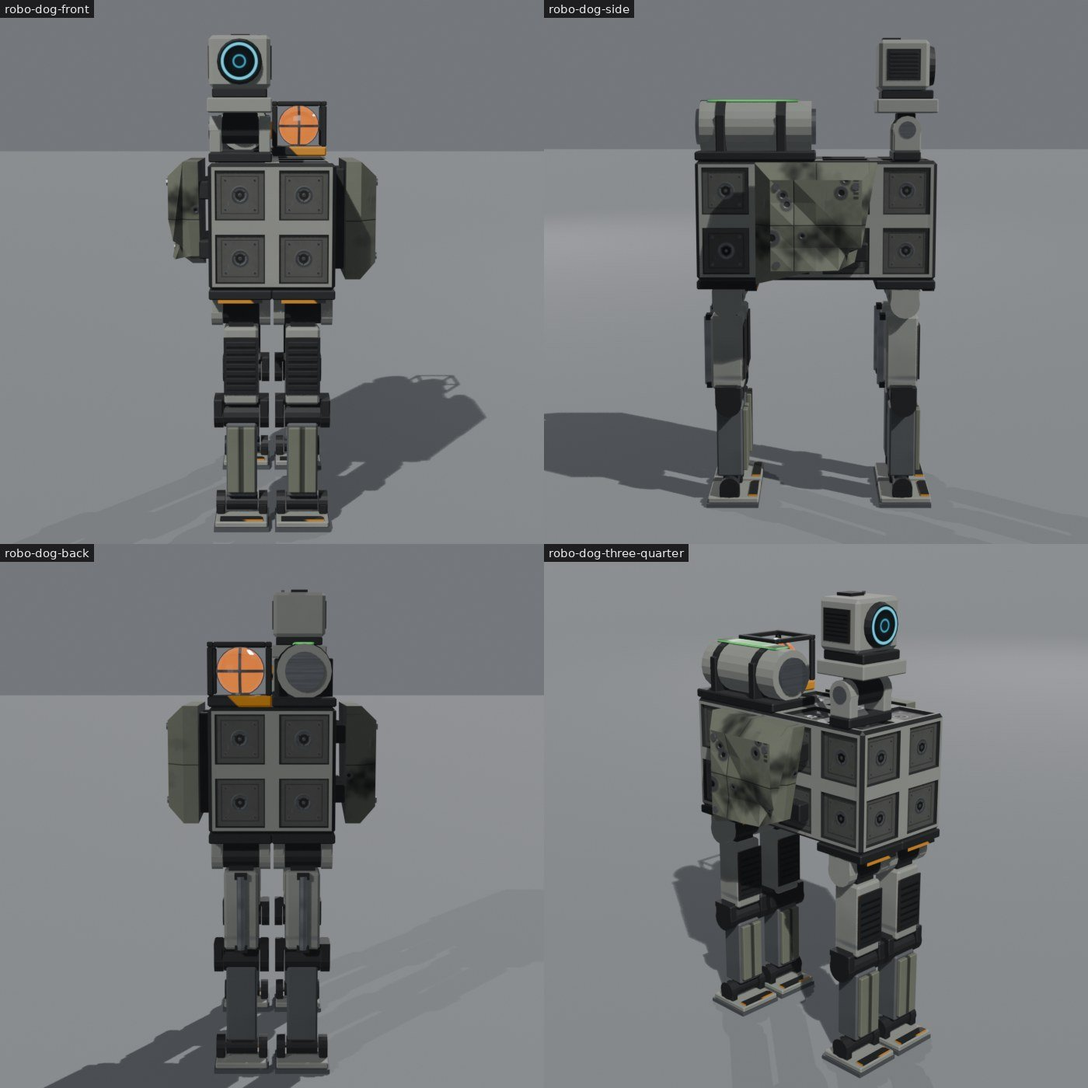
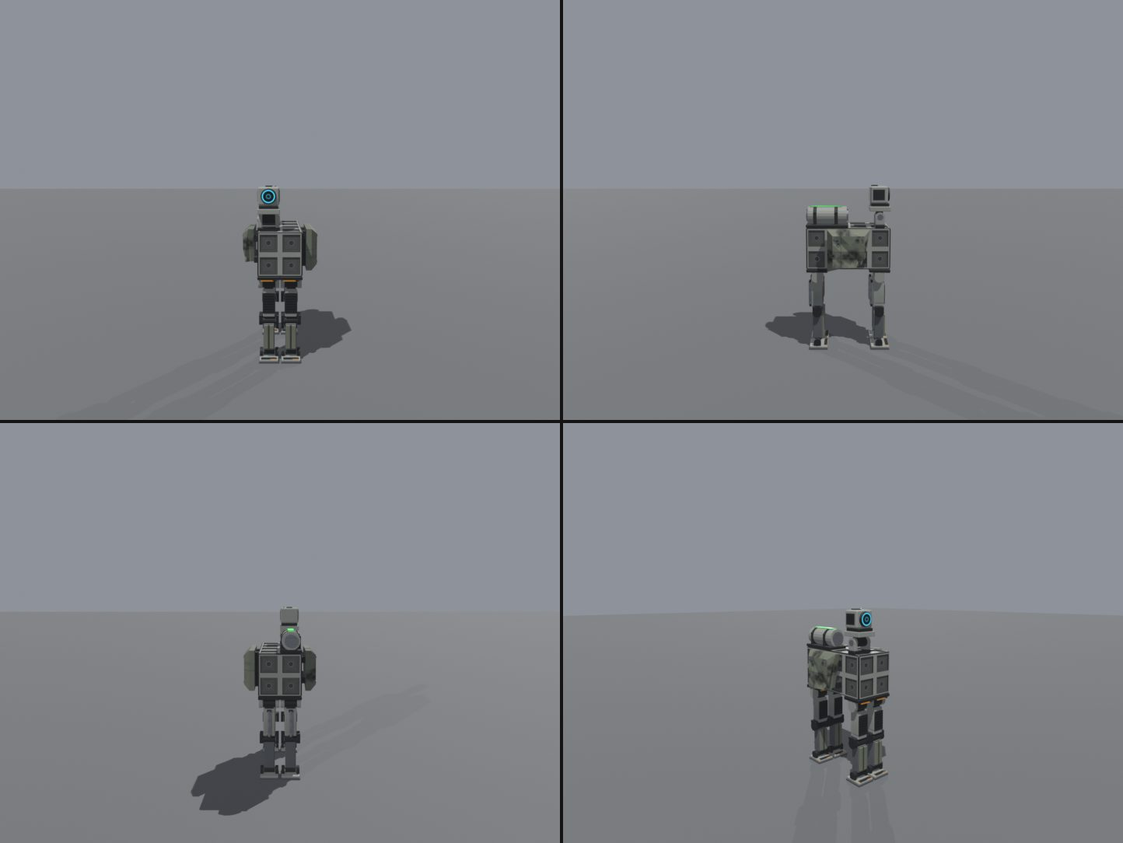
Retire robot.core from the Shooter combat robot kit (#649)
Shooter removed the control core (shooter#89): the root chassis is now the
vital part. The shooter-combat-robot release no longer builds robot.core
(models, LODs, descriptor entry), and no review build uses it:

- robot kit: humanoid, robo-dog, mini-tank and turret drop the core.
- weapons kit: Shooter's humanoid frame drops the core.
- locomotion kit: the wheeled fixtures carry a sensor on the roof where the
  core sat (as Shooter's fixtures.rs now does; the extra sensors go), the
  hull and biped drop the core.
- The atlas keeps its now unused glow cell so its layout does not move.
  Schemas are unchanged. Arm beams stay in the kit.
- Tests, docs and review images updated (weapons and locomotion sheets
  re-rendered with their scripts; the robot kit's build sheets, parts and
  LODs re-rendered, its older motion sheets noted as predating this).

Download 1.80 MB (was 1.97 MB) of the 2 MB budget; two builds byte-identical.

diff --git a/scripts/build-combat-robot.ts b/scripts/build-combat-robot.ts
@@ -39,7 +39,8 @@ export type RobotPartType = { key: string; kind: string; cells: [number, number,
 
 /**
  * The parts this kit builds, exactly as Shooter's catalog declares them (crates/shooter-sim/src/robot.rs `parts`:
- * key, cells x * y * z, socket faces). robot.battery arrived with shooter#79.
+ * key, cells x * y * z, socket faces). robot.battery arrived with shooter#79; robot.core was retired with shooter#89 (the
+ * root chassis is now the vital part).
  */
 export const ROBOT_PARTS: readonly RobotPartType[] = [
   { key: "robot.chassis.20x40x80", kind: "chassis", cells: [1, 2, 4], sockets: "ALL", variants: ["default"] },
@@ -47,7 +48,6 @@ export const ROBOT_PARTS: readonly RobotPartType[] = [
   { key: "robot.chassis.40x60x80", kind: "chassis", cells: [2, 3, 4], sockets: "ALL", variants: ["default"] },
   { key: "robot.beam.20x20x40", kind: "beam", cells: [1, 1, 2], sockets: "ALL", variants: ["default"] },
   { key: "robot.beam.20x20x80", kind: "beam", cells: [1, 1, 4], sockets: "ALL", variants: ["default"] },
-  { key: "robot.core", kind: "core", cells: [1, 1, 1], sockets: "NONE", variants: ["default"] },
   { key: "robot.sensor", kind: "sensor", cells: [1, 1, 1], sockets: "NONE", variants: ["default"] },
   { key: "robot.battery", kind: "battery", cells: [1, 2, 1], sockets: "NONE", variants: ["default"] },
   { key: "robot.armor.plate", kind: "armor", cells: [2, 2, 1], sockets: "NONE", variants: ["default", "damaged"] },
@@ -129,7 +129,7 @@ const turn = (quarters: number): Orientation => ({ ...IDENTITY, yaw: quarters * 
 
 /**
  * Review builds, each a single-parent tree on the socket grid. `humanoid` is Shooter's HEAVY build exactly (robot.rs:
- * the medium chassis, core and battery on its back, sensor on top, a long beam per arm, two legs, the rail gun along
+ * the medium chassis, a battery on its back, sensor on top, a long beam per arm, two legs, the rail gun along
  * the left arm, the blade in the right hand, the rocket launcher on top, the grapple on the chest) plus one armor plate
  * on its chest. `robo-dog` lays the medium chassis along +X on four legs with a nodding sensor head on a hinge.
  * `mini-tank` lays the large chassis on two placeholder tracks with a rotor, riser, hinge and gun. `turret` is a
@@ -141,7 +141,6 @@ export const ROBOT_COMPOSITIONS: Record<string, { note: string; items: Item[] }>
     note: "Shooter's HEAVY build (crates/shooter-sim/src/robot.rs) plus an armor plate on the chest, standing on its placeholder legs; it faces +X.",
     items: [
       { id: "torso", key: "robot.chassis.40x40x80", translation: [0, 0.8, 0] },
-      { id: "core", key: "robot.core", parent: "torso", mount: { face: "NegX", u: 2, v: 0 } },
       { id: "sensor", key: "robot.sensor", parent: "torso", mount: { face: "PosZ", u: 0, v: 0 } },
       { id: "arm-left", key: "robot.beam.20x20x80", parent: "torso", mount: { face: "PosY", u: 3, v: 0 } },
       { id: "arm-right", key: "robot.beam.20x20x80", parent: "torso", mount: { face: "NegY", u: 0, v: 3 } },
@@ -156,7 +155,7 @@ export const ROBOT_COMPOSITIONS: Record<string, { note: string; items: Item[] }>
     ],
   },
   "robo-dog": {
-    note: "A quadruped: the medium chassis lying along +X as the body, four legs underneath at its corners, a sensor head nodding on a hinge at the front, the core and a battery on its back and armor plates on its flanks (one damaged).",
+    note: "A quadruped: the medium chassis lying along +X as the body, four legs underneath at its corners, a sensor head nodding on a hinge at the front, a battery on its back and armor plates on its flanks (one damaged).",
     items: [
       { id: "body", key: "robot.chassis.40x40x80", translation: [-0.4, 1.1, 0.2], orientation: { yaw: 0, pitch: QUARTER_TURN, roll: 0 } },
       { id: "leg-rear-left", key: "robot.leg", parent: "body", mount: { face: "PosX", u: 0, v: 0 } },
@@ -165,14 +164,13 @@ export const ROBOT_COMPOSITIONS: Record<string, { note: string; items: Item[] }>
       { id: "leg-front-right", key: "robot.leg", parent: "body", mount: { face: "PosX", u: 1, v: 3 } },
       { id: "neck", key: "robot.joint.hinge", parent: "body", mount: { face: "NegX", u: 3, v: 0, orientation: turn(1) } },
       { id: "head", key: "robot.sensor", parent: "neck", mount: { face: "PosZ", u: 0, v: 0, orientation: turn(-1) } },
-      { id: "core", key: "robot.core", parent: "body", mount: { face: "NegX", u: 0, v: 1 } },
       { id: "battery", key: "robot.battery", parent: "body", mount: { face: "NegX", u: 1, v: 0, orientation: turn(1) } },
       { id: "flank-left", key: "robot.armor.plate", parent: "body", mount: { face: "PosY", u: 1, v: 0 } },
       { id: "flank-right", key: "robot.armor.plate", variant: "damaged", parent: "body", mount: { face: "NegY", u: 0, v: 1 } },
     ],
   },
   "mini-tank": {
-    note: "A low tracked tank: the large chassis lying along +X on two tracks (placeholders until #634), a rotor on its deck with a riser, a hinge and the rail gun (placeholder until #594) as a pitching, turning turret, the core at the back, a sensor and a battery on the deck and an armor plate on the nose.",
+    note: "A low tracked tank: the large chassis lying along +X on two tracks (placeholders until #634), a rotor on its deck with a riser, a hinge and the rail gun (placeholder until #594) as a pitching, turning turret, a sensor and a battery on the deck and an armor plate on the nose.",
     items: [
       { id: "hull", key: "robot.chassis.40x60x80", translation: [-0.4, 0.7, 0.3], orientation: { yaw: 0, pitch: QUARTER_TURN, roll: 0 } },
       { id: "track-left", key: "robot.track", parent: "hull", mount: { face: "PosX", u: 0, v: 0 } },
@@ -181,14 +179,13 @@ export const ROBOT_COMPOSITIONS: Record<string, { note: string; items: Item[] }>
       { id: "riser", key: "robot.beam.20x20x40", parent: "rotor", mount: { face: "PosZ", u: 0, v: 0 } },
       { id: "elevation", key: "robot.joint.hinge", parent: "riser", mount: { face: "PosX", u: 0, v: 1 } },
       { id: "rail-gun", key: "weapon.rail-gun", parent: "elevation", mount: { face: "PosZ", u: 0, v: 0 } },
-      { id: "core", key: "robot.core", parent: "hull", mount: { face: "NegZ", u: 1, v: 1 } },
       { id: "sensor", key: "robot.sensor", parent: "hull", mount: { face: "NegX", u: 3, v: 0 } },
       { id: "battery", key: "robot.battery", parent: "hull", mount: { face: "NegX", u: 0, v: 0 } },
       { id: "nose-plate", key: "robot.armor.plate", parent: "hull", mount: { face: "PosZ", u: 0, v: 0 } },
     ],
   },
   turret: {
-    note: "A stationary turret: the large chassis as the pedestal, a rotor, a riser beam, a hinge and the medium chassis as the gun housing pointing +X, with armor, the core, a battery and a sensor.",
+    note: "A stationary turret: the large chassis as the pedestal, a rotor, a riser beam, a hinge and the medium chassis as the gun housing pointing +X, with armor, a battery and a sensor.",
     items: [
       { id: "pedestal", key: "robot.chassis.40x60x80", translation: [-0.1, 0, 0.2] },
       { id: "rotor", key: "robot.joint.rotor", parent: "pedestal", mount: { face: "PosZ", u: 0, v: 1 } },
@@ -197,7 +194,6 @@ export const ROBOT_COMPOSITIONS: Record<string, { note: string; items: Item[] }>
       { id: "housing", key: "robot.chassis.40x40x80", parent: "elevation", mount: { face: "PosZ", u: 0, v: 0 } },
       { id: "sensor", key: "robot.sensor", parent: "housing", mount: { face: "PosY", u: 3, v: 0 } },
       { id: "rail-gun", key: "weapon.rail-gun", parent: "housing", mount: { face: "PosZ", u: 0, v: 0 } },
-      { id: "core", key: "robot.core", parent: "pedestal", mount: { face: "NegX", u: 3, v: 1 } },
       { id: "battery", key: "robot.battery", parent: "pedestal", mount: { face: "NegX", u: 1, v: 0 } },
       { id: "front-plate", key: "robot.armor.plate", parent: "pedestal", mount: { face: "PosX", u: 0, v: 0 } },
       { id: "side-plate", key: "robot.armor.plate", variant: "damaged", parent: "pedestal", mount: { face: "PosY", u: 0, v: 0, orientation: turn(0) } },

diff --git a/scripts/build-robot-locomotion.ts b/scripts/build-robot-locomotion.ts
@@ -123,14 +123,14 @@ const GROUND = { normal: [0, 1, 0] as Vec3, uAxis: [1, 0, 0] as Vec3, vAxis: [0,
 const yaw = (quarters: number): Orientation => ({ ...IDENTITY, yaw: quarters * QUARTER_TURN });
 const L = "robot.chassis.40x60x80";
 
-/** Shooter's wheeled fixtures (crates/shooter-sim/src/mechanics/fixtures.rs `wheeled`): the large chassis on end, the core
- * on top, four wheels hanging over the bottom corners of two opposite faces. */
+/** Shooter's wheeled fixtures (crates/shooter-sim/src/mechanics/fixtures.rs `wheeled`): the large chassis on end, a sensor
+ * on top where the retired core sat (shooter#89), four wheels hanging over the bottom corners of two opposite faces. */
 function wheeled(sideways: boolean, lift: number): Item[] {
   const [left, right]: Face[] = sideways ? ["PosX", "NegX"] : ["PosY", "NegY"];
   const [secondLeft, secondRight, quarterLeft, quarterRight] = sideways ? [[2, 0], [0, 2], 3, 1] as const : [[0, 1], [1, 0], 1, 3] as const;
   return [
     { id: "chassis", key: L, translation: [-0.1, lift, 0.1] },
-    { id: "core", key: "robot.core", parent: "chassis", mount: { face: "PosZ", u: 0, v: 0 } },
+    { id: "sensor", key: "robot.sensor", parent: "chassis", mount: { face: "PosZ", u: 0, v: 0 } },
     { id: "wheel-left-rear", key: "robot.wheel", parent: "chassis", mount: { face: left, u: 0, v: 0, orientation: yaw(2) } },
     { id: "wheel-left-front", key: "robot.wheel", parent: "chassis", mount: { face: left, u: secondLeft[0], v: secondLeft[1], orientation: yaw(quarterLeft) } },
     { id: "wheel-right-rear", key: "robot.wheel", parent: "chassis", mount: { face: right, u: 0, v: 0, orientation: yaw(2) } },
@@ -138,18 +138,17 @@ function wheeled(sideways: boolean, lift: number): Item[] {
   ];
 }
 
-/** The large chassis lying along +X as a hull (40 cm tall, 60 wide, its bottom on the ground), the core on its back. */
+/** The large chassis lying along +X as a hull (40 cm tall, 60 wide, its bottom on the ground). */
 function hull(): Item[] {
   return [
     { id: "hull", key: L, translation: [-0.4, 0.3, 0.2], orientation: { yaw: 0, pitch: QUARTER_TURN, roll: 0 } },
-    { id: "core", key: "robot.core", parent: "hull", mount: { face: "NegZ", u: 1, v: 0 } },
   ];
 }
 
 /**
  * Review builds. `biped` is Shooter's humanoid frame on the robot kit's legs, for comparison; `wheeler` and `strafer` are
  * Shooter's `car` and `strafer` fixtures exactly (wheels on the sides, then on the front and back: the unusual mounting
- * that drives it sideways), each with a sensor and a grapple added; `mini-tank` lays the large chassis on two tracks on
+ * that drives it sideways), the wheeler with a grapple added; `mini-tank` lays the large chassis on two tracks on
  * its sides (their axles across the hull) under a rotor, hinge and rail-gun turret; `crab` carries its tracks on the
  * hull's ends, overhanging, so it crawls sideways.
  */
@@ -158,7 +157,6 @@ export const LOCOMOTION_COMPOSITIONS: Record<string, { note: string; items: Item
     note: "For comparison: Shooter's humanoid frame on the small chassis (robot.rs `frame`) on the robot kit's legs, with the rifle and the grapple.",
     items: [
       { id: "torso", key: "robot.chassis.20x40x80", translation: [0, 0.8, 0] },
-      { id: "core", key: "robot.core", parent: "torso", mount: { face: "NegX", u: 2, v: 0 } },
       { id: "sensor", key: "robot.sensor", parent: "torso", mount: { face: "PosZ", u: 0, v: 0 } },
       { id: "arm-left", key: "robot.beam.20x20x80", parent: "torso", mount: { face: "PosY", u: 3, v: 0 } },
       { id: "arm-right", key: "robot.beam.20x20x80", parent: "torso", mount: { face: "NegY", u: 0, v: 3 } },
@@ -169,15 +167,15 @@ export const LOCOMOTION_COMPOSITIONS: Record<string, { note: string; items: Item
     ],
   },
   wheeler: {
-    note: "Shooter's `car` fixture exactly (the large chassis on end, the core on top, four wheels hanging over the bottom corners of its sides, axles across), plus a sensor and the grapple on its front.",
-    items: [...wheeled(false, 0.2 - 0.02), { id: "sensor", key: "robot.sensor", parent: "chassis", mount: { face: "PosX", u: 2, v: 3 } }, { id: "grapple", key: "weapon.grapple-hook", parent: "chassis", mount: { face: "PosX", u: 0, v: 3 } }],
+    note: "Shooter's `car` fixture exactly (the large chassis on end, a sensor on top where the retired core sat, four wheels hanging over the bottom corners of its sides, axles across), plus the grapple on its front.",
+    items: [...wheeled(false, 0.2 - 0.02), { id: "grapple", key: "weapon.grapple-hook", parent: "chassis", mount: { face: "PosX", u: 0, v: 3 } }],
   },
   strafer: {
     note: "Shooter's `strafer` fixture exactly: the same four wheels on the chassis' front and back, axles along its length, so the same drive moves it sideways. The unusual wheel mounting.",
-    items: [...wheeled(true, 0.2 - 0.02), { id: "sensor", key: "robot.sensor", parent: "chassis", mount: { face: "PosX", u: 1, v: 3 } }],
+    items: wheeled(true, 0.2 - 0.02),
   },
   "mini-tank": {
-    note: "A low tank: the large chassis lying along +X (40 cm tall, 60 wide) with a track on each side over its lower cell row (axles across the hull, the belt's bottom flush with the hull's), a rotor, riser and hinge carrying the rail gun, the core at the back, a sensor and the grapple on the front.",
+    note: "A low tank: the large chassis lying along +X (40 cm tall, 60 wide) with a track on each side over its lower cell row (axles across the hull, the belt's bottom flush with the hull's), a rotor, riser and hinge carrying the rail gun, a sensor and the grapple on the front.",
     items: [
       ...hull(),
       { id: "track-left", key: "robot.track", parent: "hull", mount: { face: "PosY", u: 0, v: 1, orientation: yaw(-1) } },

diff --git a/test/socket-grid.test.ts b/test/socket-grid.test.ts
@@ -9,11 +9,11 @@ const cross = (a: number[], b: number[]) => [a[1]! * b[2]! - a[2]! * b[1]!, a[2]
 
 test("the kit's parts are Shooter's catalog rows, with its socket counts", () => {
   const rows = Object.fromEntries(ROBOT_PARTS.map((part) => [part.key, [part.cells, part.sockets]]));
-  // robot.rs parts: key, cells, socket faces (robot.battery from shooter#79).
+  // robot.rs parts: key, cells, socket faces (robot.battery from shooter#79; robot.core retired with shooter#89).
   assert.deepEqual(rows, {
     "robot.chassis.20x40x80": [[1, 2, 4], "ALL"], "robot.chassis.40x40x80": [[2, 2, 4], "ALL"], "robot.chassis.40x60x80": [[2, 3, 4], "ALL"],
     "robot.beam.20x20x40": [[1, 1, 2], "ALL"], "robot.beam.20x20x80": [[1, 1, 4], "ALL"],
-    "robot.core": [[1, 1, 1], "NONE"], "robot.sensor": [[1, 1, 1], "NONE"], "robot.battery": [[1, 2, 1], "NONE"], "robot.armor.plate": [[2, 2, 1], "NONE"],
+    "robot.sensor": [[1, 1, 1], "NONE"], "robot.battery": [[1, 2, 1], "NONE"], "robot.armor.plate": [[2, 2, 1], "NONE"],
     "robot.joint.hinge": [[1, 1, 1], "TOP"], "robot.joint.rotor": [[1, 1, 1], "TOP"], "robot.leg": [[1, 1, 4], "NONE"],
   });
   const count = (key: string) => { const part = ROBOT_PARTS.find((p) => p.key === key)!; return partSockets(part.cells, SOCKET_FACES[part.sockets]).length; };
@@ -25,14 +25,14 @@ test("the kit's parts are Shooter's catalog rows, with its socket counts", () =>
   assert.equal(count("robot.chassis.40x60x80"), 52);
   assert.equal(count("robot.beam.20x20x40"), 10);
   assert.equal(count("robot.beam.20x20x80"), 18);
-  assert.equal(count("robot.core"), 0);
+  assert.equal(count("robot.sensor"), 0);
   assert.equal(ROBOT_PARTS.find((p) => p.key === "robot.armor.plate")!.variants.includes("damaged"), true);
 });
 
 test("sockets follow Shooter's numbering and sit on their faces, one per cell", () => {
   const cells = [1, 2, 4];
   const sockets = partSockets(cells, FACES);
-  // Shooter's frame(): the arm on PosY at (side - 1, 0) and on NegY at (0, right - 1), the core on NegX at (2, 0).
+  // Shooter's frame(): the arm on PosY at (side - 1, 0) and on NegY at (0, right - 1); a back socket, NegX (2, 0).
   assert.equal(sockets.find((s) => s.face === "PosY" && s.u === 3 && s.v === 0)!.id, 8 + 8 + 3);
   assert.equal(sockets.find((s) => s.face === "NegX" && s.u === 2 && s.v === 0)!.id, 8 + 2);
   assert.deepEqual(faceGrid("NegY", cells), [1, 4]);

diff --git a/scripts/build-shooter-weapons.ts b/scripts/build-shooter-weapons.ts
@@ -178,11 +178,10 @@ type Mount = { face: Face; u: number; v: number; orientation?: Orientation };
 type Item = { id: string; key: string; variant?: string; parent?: string; mount?: Mount; translation?: Vec3; orientation?: Orientation; mod?: string };
 const GROUND = { normal: [0, 1, 0] as Vec3, uAxis: [1, 0, 0] as Vec3, vAxis: [0, 0, -1] as Vec3 };
 
-/** Shooter's humanoid frame (robot.rs `frame`) on `torso`: the core on its back, the sensor on top, an arm a side, two legs. */
+/** Shooter's humanoid frame (robot.rs `frame`) on `torso`: the sensor on top, an arm a side, two legs. */
 function frame(torso: string, cells: readonly number[]): Item[] {
   return [
     { id: "torso", key: torso, translation: [0, 0.8, 0] },
-    { id: "core", key: "robot.core", parent: "torso", mount: { face: "NegX", u: 2, v: 0 } },
     { id: "sensor", key: "robot.sensor", parent: "torso", mount: { face: "PosZ", u: 0, v: 0 } },
     { id: "arm-left", key: "robot.beam.20x20x80", parent: "torso", mount: { face: "PosY", u: cells[2]! - 1, v: 0 } },
     { id: "arm-right", key: "robot.beam.20x20x80", parent: "torso", mount: { face: "NegY", u: 0, v: cells[2]! - 1 } },

diff --git a/test/blender/kits/combat-robot.test.ts b/test/blender/kits/combat-robot.test.ts
@@ -146,7 +146,7 @@ test("the recipe builds a verified kit on one atlas, every part inside its cuboi
     assert.deepEqual(conforms(schema, descriptor, schema), []);
     assert.deepEqual(descriptor.parts.map((part: any) => [part.key, part.socketCount]), [
       ["robot.chassis.20x40x80", 28], ["robot.chassis.40x40x80", 40], ["robot.chassis.40x60x80", 52], ["robot.beam.20x20x40", 10], ["robot.beam.20x20x80", 18],
-      ["robot.core", 0], ["robot.sensor", 0], ["robot.battery", 0], ["robot.armor.plate", 0], ["robot.joint.hinge", 1], ["robot.joint.rotor", 1], ["robot.leg", 0],
+      ["robot.sensor", 0], ["robot.battery", 0], ["robot.armor.plate", 0], ["robot.joint.hinge", 1], ["robot.joint.rotor", 1], ["robot.leg", 0],
     ]);
     for (const part of descriptor.parts) {
       assert.deepEqual(part.joints, ROBOT_JOINTS[part.key]?.joints ?? [], `${part.key}: joints`);

diff --git a/adapters/blender/combat_robot.py b/adapters/blender/combat_robot.py
@@ -39,7 +39,6 @@ PARTS = {
     "robot.chassis.40x60x80": ((2, 3, 4), True),
     "robot.beam.20x20x40": ((1, 1, 2), True),
     "robot.beam.20x20x80": ((1, 1, 4), True),
-    "robot.core": ((1, 1, 1), False),
     "robot.sensor": ((1, 1, 1), False),
     "robot.battery": ((1, 2, 1), False),
     "robot.armor.plate": ((2, 2, 1), False),
@@ -71,6 +70,7 @@ ARMOR = np.array((0.42, 0.44, 0.38))         # armor: olive drab
 ATLAS_EDGE = 2048
 CELL_PX = 512
 GUTTER = 8
+# "core-glow" is unused since robot.core was retired (shooter#89, #649); it stays so the atlas layout does not move.
 CELLS = {
     "socket": (0, 0), "socket-flat": (1, 0), "paint": (2, 0), "gunmetal": (3, 0),
     "steel": (0, 1), "socket-beam": (1, 1), "hazard": (2, 1), "vent": (3, 1),
@@ -571,31 +571,6 @@ def beam(p):
     p.socket_cuboid("beam-paint", "socket-beam", "socket-flat-beam", "gunmetal")
 
 
-def core(p):
-    """The control core, the kill target: a white-hot reactor sphere in an open armoured cage on a hazard-striped base."""
-    lvl = p.level
-    p.box((-0.1, -0.1, 0), (0.1, 0.1, 0.035), "hazard", bevel=0.006 if lvl == 0 else 0, top="panel")
-    if lvl < 2:
-        for sx in (-1, 1):
-            for sy in (-1, 1):
-                p.box((sx * 0.1 - (0.02 if sx > 0 else 0), sy * 0.1 - (0.02 if sy > 0 else 0), 0.035),
-                      (sx * 0.1 + (0.02 if sx < 0 else 0), sy * 0.1 + (0.02 if sy < 0 else 0), 0.184), "gunmetal", bevel=0.004 if lvl == 0 else 0)
-        # The top frame: four bars round an open square, so the glow shows from above too.
-        for lo, hi in (((-0.1, -0.1, 0.184), (0.1, -0.08, 0.2)), ((-0.1, 0.08, 0.184), (0.1, 0.1, 0.2)),
-                       ((-0.1, -0.08, 0.184), (-0.08, 0.08, 0.2)), ((0.08, -0.08, 0.184), (0.1, 0.08, 0.2))):
-            p.box(lo, hi, "gunmetal", bevel=0.003 if lvl == 0 else 0)
-        p.sphere((0, 0, 0.11), 0.074, 20 if lvl == 0 else 10, 12 if lvl == 0 else 6, "core-glow")
-        if lvl == 0:
-            # Containment rings: one round the equator, two meridians. Each is a closed thin disc whose middle hides
-            # inside the sphere, so only the ring shows and no open edge does from any side.
-            for axis in ((0, 0, 1), (1, 0, 0), (0, 1, 0)):
-                p.cylinder(Vector((0, 0, 0.11)) - Vector(axis) * 0.005, axis, 0.077, 0.01, 24, "steel")
-            p.cylinder((0, 0, 0.035), (0, 0, 1), 0.03, 0.012, 12, "steel")
-    else:
-        p.box((-0.07, -0.07, 0.04), (0.07, 0.07, 0.18), "core-glow")
-    return {}
-
-
 def sensor(p):
     """A sensor head: a housing with a large lens looking along +x, side vents and a neck collar."""
     lvl = p.level
@@ -879,7 +854,7 @@ def add_clips(obj):
 BUILDERS = {
     "robot.chassis.20x40x80": chassis, "robot.chassis.40x40x80": chassis, "robot.chassis.40x60x80": chassis,
     "robot.beam.20x20x40": beam, "robot.beam.20x20x80": beam,
-    "robot.core": core, "robot.sensor": sensor, "robot.battery": battery, "robot.armor.plate": armor_plate,
+    "robot.sensor": sensor, "robot.battery": battery, "robot.armor.plate": armor_plate,
     "robot.joint.hinge": hinge, "robot.joint.rotor": rotor, "robot.leg": leg,
 }
 

diff --git a/docs/combat-robot-kit.md b/docs/combat-robot-kit.md
@@ -4,7 +4,9 @@ Modular robot parts for the [Shooter](https://github.com/moenarch-games/shooter)
 
 It is a reproducible Blender recipe, [`adapters/blender/combat_robot.py`](../adapters/blender/combat_robot.py), built to the [kit standard](kit-standard.md) and shipped as one rolling release, `shooter-combat-robot` (`shooter-combat-robot.kit.tar`). It is original procedural work with no third-party assets (see [Sources](#sources)). No game places it yet.
 
-**Status.** The release has every part of #595: the nine static parts, the hinge and rotor joints with their axis frames, and the leg with its joint chain and reference walk clips. Every part is a closed surface, so it renders attached or detached on its own. Wheels and tracks come with #634 and weapons with #594.
+**Status.** The release has the eight static parts, the hinge and rotor joints with their axis frames, and the leg with its joint chain and reference walk clips. Every part is a closed surface, so it renders attached or detached on its own. Wheels and tracks come with #634 and weapons with #594.
+
+**Retired: `robot.core`.** Shooter removed the control core from its catalog (shooter#89): a robot's root chassis is now its vital part. The release no longer builds `robot.core` (models, LODs and descriptor entry are gone, #649), and no review build uses it. The atlas keeps its unused glow cell, so the layout does not move. Shooter owns the vital-part rule; the kit draws no cue for it.
 
 ## Build
 
@@ -25,7 +27,6 @@ Each part's key, cells and socket faces are Shooter's catalog row (`crates/shoot
 | `robot.chassis.40x60x80` | 2 × 3 × 4 | 52 | 1,016 / 184 / 12 | |
 | `robot.beam.20x20x40` | 1 × 1 × 2 | 10 | 220 / 60 / 12 | dark graphite structural beam, couplings on every cell |
 | `robot.beam.20x20x80` | 1 × 1 × 4 | 18 | 380 / 92 / 12 | |
-| `robot.core` | 1 × 1 × 1 | – | 1,156 / 208 / 24 | the kill target: a glowing orange reactor sphere in an open black cage on a hazard-striped base |
 | `robot.sensor` | 1 × 1 × 1 | – | 220 / 84 / 36 | a housing with a large lens looking along the part's +x, side vents |
 | `robot.battery` | 1 × 2 × 1 | – | 524 / 132 / 24 | one large cell along y in a cradle, a lit green charge window on top |
 | `robot.armor.plate` | 2 × 2 × 1 | – | 262 / 44 / 12 | an olive faceted plate on two brackets; `damaged`: holed, dented, scorched, a corner shot away |
@@ -33,11 +34,11 @@ Each part's key, cells and socket faces are Shooter's catalog row (`crates/shoot
 | `robot.joint.rotor` | 1 × 1 × 1 | 1 (top) | 492 / 188 / 24 | a continuous rotor: a square flange and drum, a steel bearing ring, and a turntable with hazard stripes round its rim (so a turn reads) and the coupling on top |
 | `robot.leg` | 1 × 1 × 4 | – | 1,172 / 444 / 48 | a self-contained 80 cm leg from a hip bracket on the mount face to the sole: pale thigh with an actuator and vent, graphite shin with an olive guard, a foot whose hazard toe points along the part's +y |
 
-The triangle counts are from the build of 2026-11-14; the descriptor carries each build's own. The core, sensor, battery, plate and leg have no sockets (Shooter's `Faces::NONE`), so nothing mounts on them; the hinge and rotor have one, on their moving top (Shooter's `Faces::TOP`, socket 0).
+The triangle counts are from the build of 2026-11-14; the descriptor carries each build's own. The sensor, battery, plate and leg have no sockets (Shooter's `Faces::NONE`), so nothing mounts on them; the hinge and rotor have one, on their moving top (Shooter's `Faces::TOP`, socket 0).
 
 **Bundle entries.** Every part has `default`, `lod1` and `lod2`; the plate also has `damaged`, `damaged-lod1` and `damaged-lod2`, with the same outline and hit proxy. The hinge, rotor and leg have the same skin and joint nodes at every level (lod2 is one box per moving piece), and every leg level carries the walk clips. Levels end at 60 m and 180 m for a piece up to 1 m across, scaled with its widest side (`scaledLodDistances`), in the descriptor's `lodSelection` and per-part `lods` (variant `lods` under `variants`). On chassis and beams, lod1 draws each coupling flat in the texture and lod2 is the bare cuboid with one flat coupling drawn over each face, which keeps lod1's average tone.
 
-**Materials and textures:** one opaque material, `robot-metal`, on a 2048 px KTX2 atlas of colour, normal, ORM (occlusion, roughness, metallic) and emissive. Its 4 × 4 cells hold the couplings (one per palette, plus their flat lod1 versions), paint, gunmetal, steel, hazard stripes, vents, the core's glow, the lens, the charge window, the armor and its damage, and the housings' panels. The glow of the core, lens and charge window is in the emissive map, at glTF emissive strength 1. Every part draws in one call.
+**Materials and textures:** one opaque material, `robot-metal`, on a 2048 px KTX2 atlas of colour, normal, ORM (occlusion, roughness, metallic) and emissive. Its 4 × 4 cells hold the couplings (one per palette, plus their flat lod1 versions), paint, gunmetal, steel, hazard stripes, vents, a spare glow cell (the retired core's), the lens, the charge window, the armor and its damage, and the housings' panels. The glow of the lens and charge window is in the emissive map, at glTF emissive strength 1. Every part draws in one call.
 
 ## Socket-grid convention
 
@@ -117,10 +118,10 @@ The descriptor is canonical JSON, the `socket-grid-descriptor` attachment of `ro
 
 ## Compositions
 
-- **`humanoid`:** Shooter's `HEAVY` build exactly (the medium chassis as the torso, the core and a battery on its back, the sensor on top, a long beam per arm, two legs below, the rail gun along the left arm, the blade on the right arm's tip, the rocket launcher on top, the grapple on the chest), plus one armor plate on the chest. It faces +X and stands with its legs' feet at y = 0.
-- **`robo-dog`:** the medium chassis turned a quarter (pitch) to lie along +X as the body, four legs on its underside at the corners, a sensor head on a hinge at the front that nods, the core and a battery on its back and an armor plate on each flank (one damaged).
-- **`mini-tank`:** the large chassis lying along +X on two tracks underneath, a rotor on its deck with a short riser, a hinge on the riser's front and the rail gun on the hinge, so the gun turns and pitches; the core on the back, the sensor and a battery on the deck and an armor plate on the nose.
-- **`turret`:** a stationary build: the large chassis as a pedestal with armor plates (one damaged) on its front and side, the core and a battery on its back, a rotor on top, a short riser beam, a hinge on the riser's front and the medium chassis on the hinge as a horizontal gun housing, with the sensor on top, an armor plate on its side and the rail gun on its muzzle end.
+- **`humanoid`:** Shooter's `HEAVY` build exactly (the medium chassis as the torso, a battery on its back, the sensor on top, a long beam per arm, two legs below, the rail gun along the left arm, the blade on the right arm's tip, the rocket launcher on top, the grapple on the chest), plus one armor plate on the chest. It faces +X and stands with its legs' feet at y = 0.
+- **`robo-dog`:** the medium chassis turned a quarter (pitch) to lie along +X as the body, four legs on its underside at the corners, a sensor head on a hinge at the front that nods, a battery on its back and an armor plate on each flank (one damaged).
+- **`mini-tank`:** the large chassis lying along +X on two tracks underneath, a rotor on its deck with a short riser, a hinge on the riser's front and the rail gun on the hinge, so the gun turns and pitches; the sensor and a battery on the deck and an armor plate on the nose.
+- **`turret`:** a stationary build: the large chassis as a pedestal with armor plates (one damaged) on its front and side, a battery on its back, a rotor on top, a short riser beam, a hinge on the riser's front and the medium chassis on the hinge as a horizontal gun housing, with the sensor on top, an armor plate on its side and the rail gun on its muzzle end.
 
 Every build faces +X. Parts other kits make (`robot.wheel`, `robot.track` from #634 and the `weapon.*` modules from #594) are listed as placeholders with their catalog cells. `test/socket-grid.test.ts` checks that every build assembles flush, with no two cuboids overlapping and every child touching its parent, that the legs' toes face +X and their joints turn about a sideways axis, that rotors turn about up and that the gun hinges pitch.
 
@@ -132,7 +133,7 @@ The tables at the top of the recipe set the recess (`RIM`, `WALL`, `RECESS`), th
 import bpy, runpy
 kit = runpy.run_path("adapters/blender/combat_robot.py")
 kit["use_common"](runpy.run_path("adapters/blender/kit_common.py"))
-kit["build"]("robot.core", bpy.context.scene.collection, level=0)
+kit["build"]("robot.sensor", bpy.context.scene.collection, level=0)
 ```
 
 An articulated part comes back parented to its armature (`obj.parent`, `<key>.rig`): pose it through `rig.pose.bones[...]`, and the leg's walk clips are NLA tracks on the armature. Delete the `robot-metal` material and its `robot-metal-*` images first when you change the atlas: it is painted once per session. Blender's X, Y and Z are the part's own x, y and z, so a part built there is in Shooter's frame (the glTF exporter turns it to +Y up).
@@ -153,7 +154,9 @@ Review images are in [`review/shooter-combat-robot/`](../review/shooter-combat-r
 - `close.jpg`: the turret's back, with the core, the battery, the rotor and the couplings close up;
 - `parts.jpg`: every part and the damaged plate at full detail; `lods.jpg`: each part's three levels, front to back.
 
-Placeholder parts are drawn as translucent purple boxes, each labelled with its catalog key, `PLACEHOLDER` and the issue that makes it. Shooter has no approved style capture yet; a passing test is not visual approval.
+The four build sheets, `parts.jpg` and `lods.jpg` were re-rendered without the core (#649) with the helpers of `scripts/review-shooter-weapons.py` (unlabelled placeholders, its lighting). The motion strips, `detach.jpg`, `gameplay.jpg` and `close.jpg` predate the core's retirement and still show it; they have no committed render script.
+
+Placeholder parts are drawn as translucent purple boxes (in the older sheets labelled with their catalog key, `PLACEHOLDER` and the issue that makes them). Shooter has no approved style capture yet; a passing test is not visual approval.
 
 ## Tests
 

diff --git a/docs/robot-locomotion.md b/docs/robot-locomotion.md
@@ -66,9 +66,9 @@ The descriptor is canonical JSON, the `socket-grid-descriptor` attachment of `ro
 ## Compositions
 
 - **`biped`**: for comparison, Shooter's humanoid frame on the small chassis on the robot kit's legs, with the rifle and the grapple.
-- **`wheeler`**: Shooter's `car` fixture exactly (`mechanics/fixtures.rs`: the large chassis on end, the core on top, four wheels on its sides, each turned on its socket to hang over a bottom corner), plus a sensor and the grapple on its front.
+- **`wheeler`**: Shooter's `car` fixture exactly (`mechanics/fixtures.rs`: the large chassis on end, a sensor on top where the retired core sat, four wheels on its sides, each turned on its socket to hang over a bottom corner), plus the grapple on its front.
 - **`strafer`**: Shooter's `strafer` fixture exactly: the same wheels on the chassis' front and back, so the same drive moves it sideways. The unusual wheel mounting.
-- **`mini-tank`**: the large chassis lying along +X as a 40 cm hull with a track on each side over its lower cell row (axles across the hull), a rotor, riser and hinge carrying the rail gun, the core at the back, a sensor and the grapple in front. The robot and weapon kits' `mini-tank` builds keep their tracks as placeholders on the hull's underside, where Shooter's mechanics would turn them about a vertical axis; this kit's mini-tank mounts them where they roll.
+- **`mini-tank`**: the large chassis lying along +X as a 40 cm hull with a track on each side over its lower cell row (axles across the hull), a rotor, riser and hinge carrying the rail gun, a sensor and the grapple in front. The robot and weapon kits' `mini-tank` builds keep their tracks as placeholders on the hull's underside, where Shooter's mechanics would turn them about a vertical axis; this kit's mini-tank mounts them where they roll.
 - **`crab`**: the same hull with its tracks on its front and back ends, overhanging by a cell, so it crawls sideways. The unusual track mounting.
 
 `test/robot-locomotion.test.ts` checks that they assemble flush without overlaps, every child touching its parent, and that every Shooter body of every wheel and track touches the ground with a horizontal axle.

diff --git a/README.md b/README.md
@@ -62,7 +62,7 @@ The [moss](docs/moss.md) is seven generic pieces of thin, ragged-edged cushion m
 
 The [young residents](docs/young-residents.md) are children and teenagers on the adults' rig, always dressed, with 21 face morph targets and a slider page.
 
-The [Shooter combat robot parts](docs/combat-robot-kit.md) are socket-grid robot parts for the Shooter on one metal atlas: three chassis sections and two beams with a coupling on every 20 cm surface cell, the glowing control core, a sensor head, a battery, an armor plate with a damaged variant, a hinge and a rotor joint, and a self-contained leg with reference walk clips. Their descriptor defines the socket, frame, origin and joint-axis convention the Shooter's weapon and locomotion kits share.
+The [Shooter combat robot parts](docs/combat-robot-kit.md) are socket-grid robot parts for the Shooter on one metal atlas: three chassis sections and two beams with a coupling on every 20 cm surface cell, a sensor head, a battery, an armor plate with a damaged variant, a hinge and a rotor joint, and a self-contained leg with reference walk clips. Their descriptor defines the socket, frame, origin and joint-axis convention the Shooter's weapon and locomotion kits share.
 
 The [Shooter weapons](docs/shooter-weapons.md) are the eight socket-grid weapons of the Shooter (energy rifle, shotgun, laser, flamethrower, grapple hook, energy blade, rail gun and rocket launcher) and its four weapon mods, on one atlas in the robot kit's style: each weapon points out of its socket, with muzzle and mod anchors, two emissive channel nodes, its fire, charge, swing, launch and reload states as glTF animations, and LODs. It ships as its own rolling release, `shooter-weapons`, with a `socket-grid-kit-descriptor-v2` descriptor.
 

diff --git a/docs/shooter-weapons.md b/docs/shooter-weapons.md
@@ -4,7 +4,7 @@ The eight weapons and four weapon mods of the [Shooter](https://github.com/moena
 
 It is a reproducible Blender recipe, [`adapters/blender/shooter_weapons.py`](../adapters/blender/shooter_weapons.py), built to the [kit standard](kit-standard.md) and shipped as its own rolling release, `shooter-weapons` (`shooter-weapons.kit.tar`). It is original procedural work with no third-party assets (see [Sources](#sources)). No game places it yet.
 
-**Why its own release.** The robot release is at 1.97 MB of its 2 MB download budget, and weapons are a separate catalogue a game may load on its own (pickups, shooter#62). One kit, one release (kit standard): `shooter-weapons` has its own `releases/shooter-weapons.json` and budget (1 material, 6 MB texture memory, 1.8 MB download; measured 5.6 MB and 1.61 MB).
+**Why its own release.** The robot release is near its 2 MB download budget (1.80 MB since the core was retired), and weapons are a separate catalogue a game may load on its own (pickups, shooter#62). One kit, one release (kit standard): `shooter-weapons` has its own `releases/shooter-weapons.json` and budget (1 material, 6 MB texture memory, 1.8 MB download; measured 5.6 MB and 1.61 MB).
 
 ## Build
 
